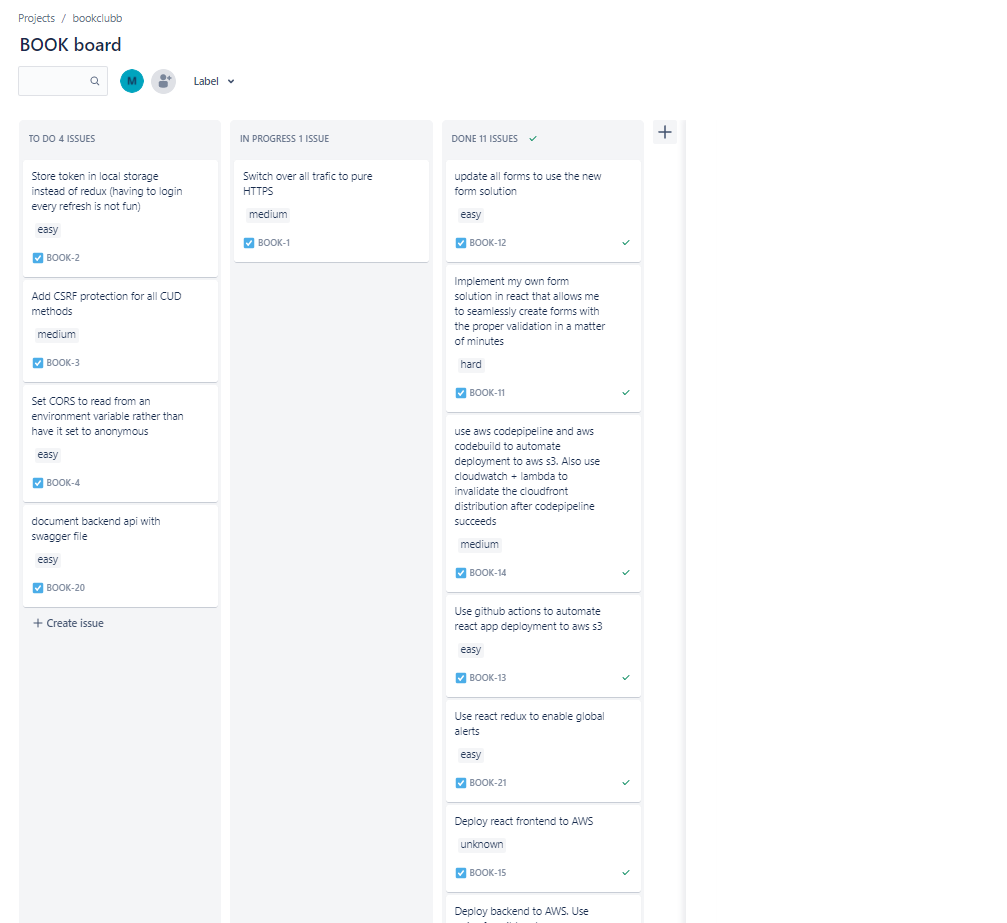
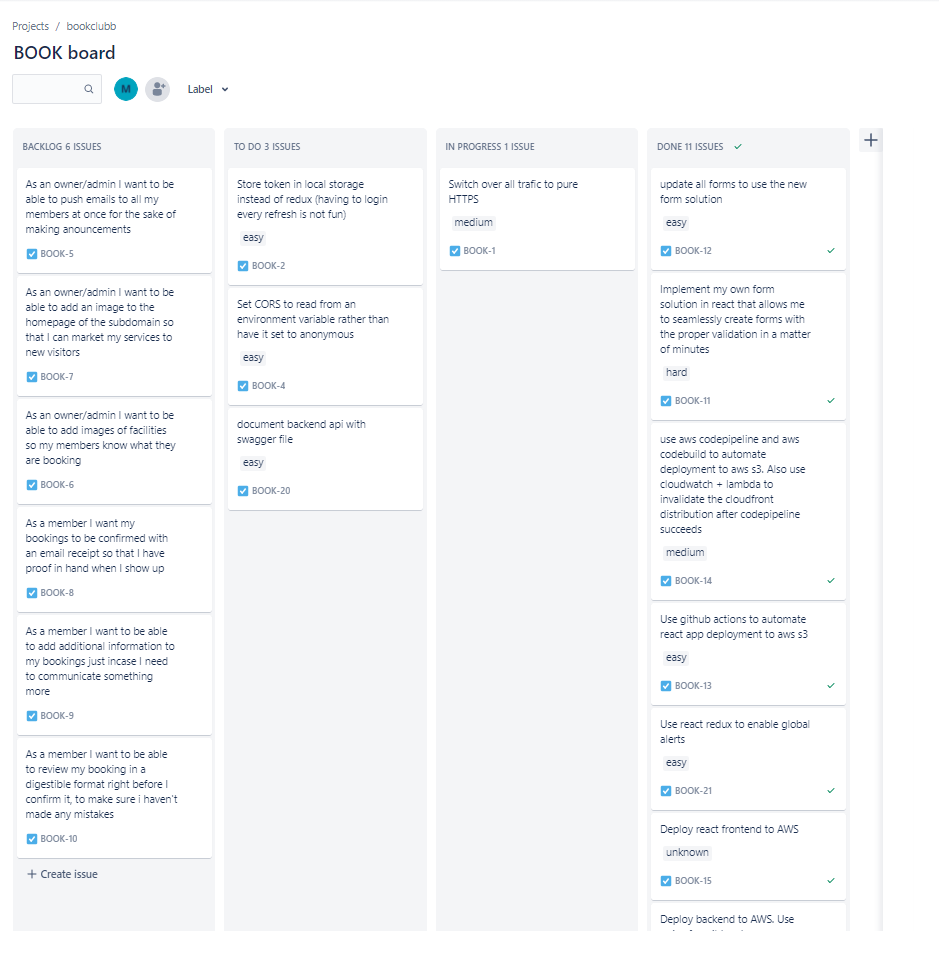
updated readme

diff --git a/readme.md b/readme.md
@@ -1,3 +1,37 @@
+<details open="open">
+  <summary>Table of Contents</summary>
+  <ol>
+    <li>
+      <a href="#about-the-project">About The Project</a>
+    </li>
+    <li>
+      <>Diagrams</>
+      <ul>
+        <li><a href="#Data Flow Diagram">Data Flow Diagram</a></li>
+        <li><a href="#Application Architecture Diagram">Application Architecture Diagram</a></li>
+        <li><a href="#Erd">Erd</a></li>
+      </ul>
+    </li>
+    <li>
+      <a href="#Deployment Instructions">Deployment Instructions</a>
+    </li>
+    <li>
+      <a href="#Planning">Planning</a>
+      <ul>
+        <li><a href="User Stories">User Stories</a></li>
+        <li><a href="#Project Management">Project Management</a></li>
+      </ul>
+    </li>
+    <li>
+      <a href="#Testing">Testing</a>
+      <ul>
+        <li><a href="Automated Testing">Automated Testing</a></li>
+        <li><a href="Manual Testing">Manual Testing</a></li>
+      </ul>
+    </li>
+  </ol>
+</details>
+
 # About the project
 A while back one of my educators at CoderAcademy suggested I make an app that makes use of multitenancy to provide anyone the ability to make their own little site. This app will allow anyone to register a subdomain and provide their customers the ability to book their facilities/services from the comfort of their home.
 
@@ -15,18 +49,18 @@ Superusers will be able add and remove facilities/members/bookings through the i
 - additional - aws, terraform, kubernetes, docker
 
 ---
-### preview
+### Preview
 <img src="./docs/preview.png">
 
 ---
-### data flow diagram
+### Data Flow Diagram
 <img src="./docs/dfd.png" width="85%"/>
 
 ---
-### application architecture diagram
+### Application Architecture Diagram
 ![aad](./docs/aad.png)
 
-### erd
+### Erd
 ![erd](./docs/erd.png)
 
 ### Deployment Instructions
@@ -54,7 +88,7 @@ That completes the setup of the flask app. Now for the react app.
 * run `yarn start`
 
 # Planning
-### User stories
+### User Stories
 User stories helped me define what I needed out of the project early on. With clear goals defined from the start I would be less likely to subject myself to scope creep and would be able to focus on the things that mattered most.
 ![user-stories](./docs/user_stories_revised.png)
 
@@ -68,27 +102,26 @@ Later on when things started to become more complex and the fine details started
  
 For the execution of the KANBAN planning I have been using Jira.
 ![jira](./docs/jira.png)
-![jira-backlog](./docs/jira-backlog.png)
 
 I used the labels easy/medium/hard as a way to keep track of the amount of effort and time needed to move a card from the in-progress column to the done column. I would factor in variables such as what I would need to learn, how much I already know and whether i've completed something similar in the past. As a general guideline a card labeled easy should have a timeframe between a few minutes to a few hours work. A card labeled medium should have a timeframe of a couple of hours (greater than 3 and less than 7) and a card labeled hard should have a timeframe between several hours and a couple of days. 
 
 # Testing
 For testing I ran both automated unittests in my continuous integration pipeline as well as manual testing. The automated tests are run by github actions. 
 
-### Automated testing
+### Automated Testing
 I configured github actions to setup a postgresql service and upgrade the database created by that service so that the unittests can be run on it.
 https://github.com/mo-ccc/bookclub/actions
 
 I'm yet to have any frontend tests.
 
-### Manual testing
+### Manual Testing
 To achieve greater coverage I perform manual tests on both the api and the client. I maintain a spreadsheet to ensure that I am testing all requirements and that I am keeping a log of what has passed and what has failed.
 
 ![spreadsheet](./docs/testing.png)
 
-#### Api testing
-I perform tests on the api through the use of the insomnia app. I've attempted to create a structure that allows me to test each endpoint in a consecutive order. 
+#### Manual Api Testing
+I perform manual tests on the api through the use of the insomnia app. I've attempted to create a structure that allows me to test each endpoint in a consecutive order. 
 ![api-testing](./docs/testing_api.png)
 
-#### Client testing
+#### Manual Client Testing
 For the client I simply use the site as intended while also attempting to fill out forms with values that I believe will cause issues.

diff --git a/rest_api/readme.md b/rest_api/readme.md
@@ -1,29 +1,3 @@
-<!-- TABLE OF CONTENTS -->
-<details open="open">
-  <summary>Table of Contents</summary>
-  <ol>
-    <li>
-      <a href="#about-the-project">About The Project</a>
-    </li>
-    <li>
-      <a href="#getting-started">Getting Started</a>
-      <ul>
-        <li><a href="#prerequisites">Prerequisites</a></li>
-        <li><a href="#installation">Installation</a></li>
-      </ul>
-    </li>
-    <li><a href="#usage">Usage</a></li>
-    <li><a href="#roadmap">Roadmap</a></li>
-    <li><a href="#contributing">Contributing</a></li>
-    <li><a href="#license">License</a></li>
-    <li><a href="#contact">Contact</a></li>
-    <li><a href="#acknowledgements">Acknowledgements</a></li>
-  </ol>
-</details>
-
-
-
-<!-- ABOUT THE PROJECT -->
 ## About The Project
 This is where the flask api resides. The api - built in python - interfaces with an sql database.
 
